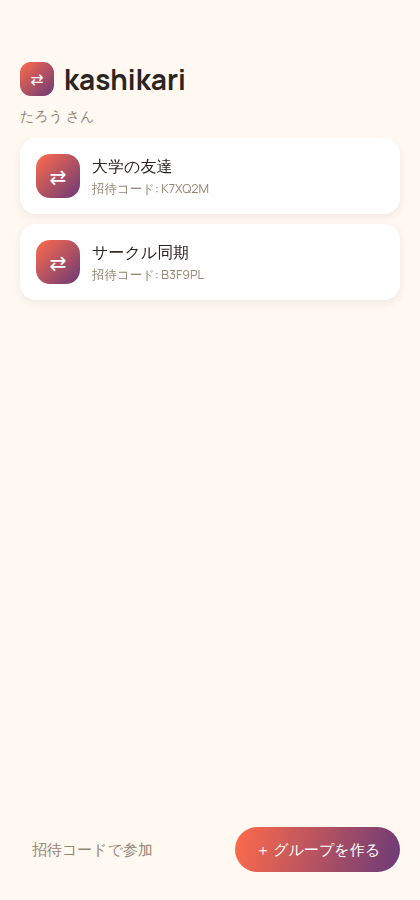
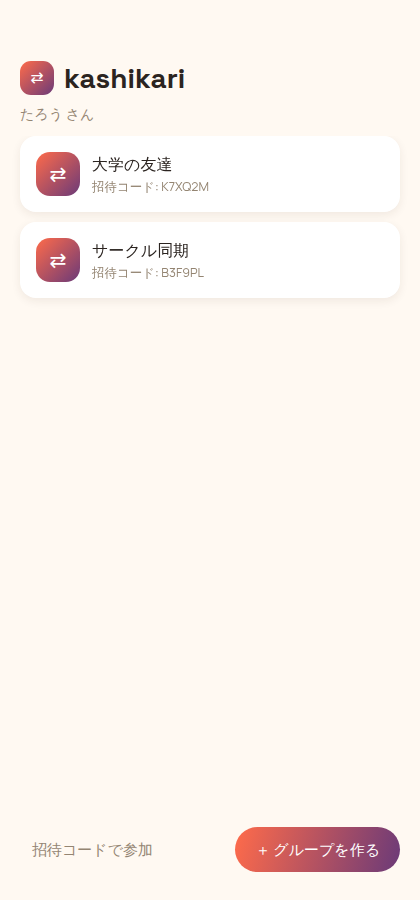
kashikari mobile: 見出し・数字の書体をSpace Groteskに変更
「フォントがまだダメ、もう少しオシャレに」という指摘への対応。

- Manrope1系統だった構成を2系統に戻す: 見出し・大きい数字(ワードマーク・
  画面タイトル・残高のヒーロー数字)はSpace Grotesk、本文・ラベルは
  引き続きManrope
- 2回目の見直しでFredoka(丸ゴシック、子供っぽいと指摘)をやめて
  Manrope単一構成にしたが、今度は個性がなく単調になっていた。Space
  Groteskは丸みがなくシャープで、かつ画一的ではない書体のため、
  両方の指摘のバランスを取れると判断
- デモモードで再確認し、docs/screenshots/を更新

diff --git a/personal-side-projects/kashikari/mobile/src/theme.ts b/personal-side-projects/kashikari/mobile/src/theme.ts
@@ -6,6 +6,13 @@
 // コーラル→プラムのグラデーションを使い、視覚的な「決め」を作った。それ以外の
 // 面(背景・カード・本文)はニュートラルのまま保ち、装飾を全面に広げて
 // ごちゃつかせないようにする(ブランドらしさは1箇所に集中させ、他は静かに)。
+//
+// 5回目の見直し: 「フォントがまだダメ・もう少しオシャレに」という指摘を受け、
+// Manrope1系統から2系統構成に戻した。見出し・大きい数字(ワードマーク、
+// 画面タイトル、残高のヒーロー数字)にはSpace Grotesk(数字のデザインが良く、
+// モダンなプロダクトでよく使われる個性のある書体)を、本文・ラベルは
+// 引き続きManrope(可読性重視)のまま。丸ゴシックのFredokaのような
+// 「子供っぽさ」を避けつつ、単一書体だった前回より性格を持たせる狙い。
 
 export const colors = {
   bg: '#fff9f2',
@@ -32,8 +39,8 @@ export const colors = {
 } as const;
 
 export const fonts = {
-  display: 'Manrope_700Bold',
-  displayMedium: 'Manrope_600SemiBold',
+  display: 'SpaceGrotesk_700Bold',
+  displayMedium: 'SpaceGrotesk_600SemiBold',
   body: 'Manrope_400Regular',
   bodyMedium: 'Manrope_500Medium',
   bodySemiBold: 'Manrope_600SemiBold',

diff --git a/personal-side-projects/kashikari/mobile/App.tsx b/personal-side-projects/kashikari/mobile/App.tsx
@@ -7,6 +7,7 @@ import {
   Manrope_600SemiBold,
   Manrope_700Bold,
 } from '@expo-google-fonts/manrope';
+import { useFonts as useSpaceGrotesk, SpaceGrotesk_600SemiBold, SpaceGrotesk_700Bold } from '@expo-google-fonts/space-grotesk';
 
 import DemoApp from './src/demo/DemoApp';
 import GroupScreen from './src/screens/GroupScreen';
@@ -29,6 +30,7 @@ const DEMO_MODE = process.env.EXPO_PUBLIC_DEMO_MODE === '1';
 
 export default function App() {
   const [manropeLoaded] = useManrope({ Manrope_400Regular, Manrope_500Medium, Manrope_600SemiBold, Manrope_700Bold });
+  const [spaceGroteskLoaded] = useSpaceGrotesk({ SpaceGrotesk_600SemiBold, SpaceGrotesk_700Bold });
   const { loading: authLoading, userId, profile, setDisplayName } = useAuth();
   const { groups, loading: groupsLoading, refresh, createGroup, joinGroup, leaveGroup } = useGroups(DEMO_MODE ? null : userId);
   const [screen, setScreen] = useState<Screen>({ name: 'groups' });
@@ -39,7 +41,7 @@ export default function App() {
     return () => clearTimeout(t);
   }, []);
 
-  if (!manropeLoaded || !minSplashDone || (!DEMO_MODE && authLoading)) {
+  if (!manropeLoaded || !spaceGroteskLoaded || !minSplashDone || (!DEMO_MODE && authLoading)) {
     return <SplashScreen />;
   }
 

diff --git a/personal-side-projects/kashikari/mobile/README.md b/personal-side-projects/kashikari/mobile/README.md
@@ -64,6 +64,15 @@ EXPO_PUBLIC_DEMO_MODE=1 npx expo start --web
 - ロゴマーク(`src/components/Mark.tsx`)・主要ボタン(`PrimaryButton`のprimary)・記録追加ボタン(`Fab`)・残高のヒーロー数字(`NetSummary`)にグラデーションを適用
 - 残高ヒーローはコーラル→プラムのグラデーションカード1枚に統一し、白文字で「受け取り/支払い」の金額を大きく見せる(緑/赤の意味的な色分けは、グラデーションの上では読みにくくなるため、下の内訳リスト側で担う設計に整理した)
 
+## デザインの見直し(5回目)
+
+「フォントがまだダメ、もう少しオシャレに」という指摘への対応。書体をManrope1系統から2系統構成に戻した。
+
+- **見出し・大きい数字(ワードマーク、画面タイトル、残高のヒーロー数字)**: Space Grotesk(数字のデザインに定評があり、モダンなプロダクトでよく使われる個性のある書体)
+- **本文・ラベル**: 引き続きManrope(可読性重視)
+
+2回目の見直しで「丸ゴシックのFredoka」を「子供っぽい」として単一書体のManropeに寄せたが、それだと今度は個性がなく単調になっていた。Space Groteskは丸みがなくシャープで、それでいて画一的でない書体のため、両方の指摘のバランスを取れると判断した。
+
 ## 構成
 
 - `App.tsx` — フォント読み込み・認証状態に応じた画面切り替え(オンボーディング/グループ一覧/グループ詳細)。会社の`app/`と同じく、ルーティングライブラリなしのシンプルな画面切り替え
